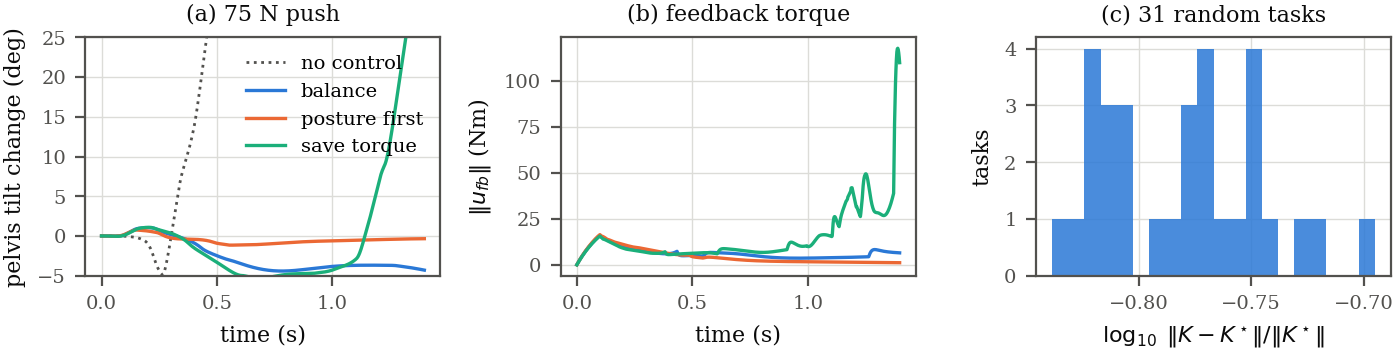
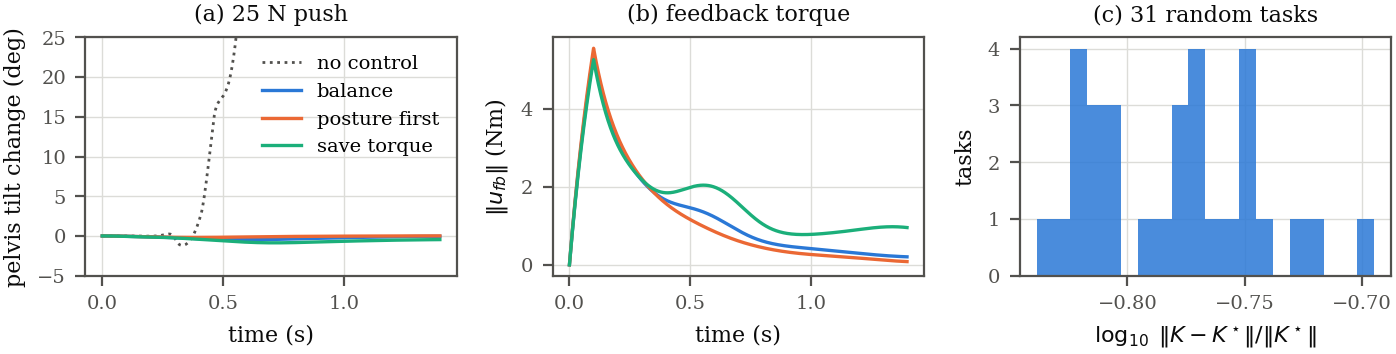
G1: stop policy iteration on a step tolerance it can reach, show a push all three tasks absorb

diff --git a/index.html b/index.html
@@ -376,19 +376,19 @@
         <span class="spec">Unitree G1, n = 70, m = 29</span>
         <span class="spec">500 Hz</span>
         <span class="spec">40000 reward-free samples</span>
-        <span class="spec">about 10 s / task</span>
+        <span class="spec">about 2 s / task</span>
       </div>
 
       <figure class="fig">
         <img src="./images/mujoco_g1.gif"
-          alt="Four Unitree G1 robots standing after a 75 N sideways push; the uncontrolled one falls, two of the three with zero-shot gains hold and the thriftiest one falls later">
-        <figcaption><span class="fnum">Demo</span>A 75&nbsp;N lateral push on the pelvis for 0.1&nbsp;s, drawn as the arrow, played at half speed, with the feedback torque of each of the 29 motors below. Without control the robot falls. The balance and posture-first gains hold. The save-torque gain, which penalises torque three times as much, holds for a moment and then falls.</figcaption>
+          alt="Four Unitree G1 robots standing after a 25 N sideways push; the uncontrolled one falls and the three with zero-shot gains hold">
+        <figcaption><span class="fnum">Demo</span>A 25&nbsp;N lateral push on the pelvis for 0.1&nbsp;s, drawn as the arrow, played at half speed, with the feedback torque of each of the 29 motors below. Without control the robot falls. The three gains hold, and the torque dies away within a few seconds. 25&nbsp;N is the largest push that all three absorb. The save-torque gain, which penalises torque three times as much, gives up first, at 50&nbsp;N.</figcaption>
       </figure>
 
       <figure class="fig" style="margin-top:26px">
         <img src="./images/mujoco_g1.png"
           alt="Three panels: pelvis tilt change after the push for the three tasks and the uncontrolled fall, the norm of the feedback torque, and a histogram of the relative gain error over random tasks">
-        <figcaption><span class="fnum">Fig. 10</span>(a) the pelvis tilt after the push. (b) the norm of the feedback torque: the thrifty gain ends up asking for far more once it starts to lose the pose. (c) the relative gain error over $31$ random tasks that both solvers handle, with a median of $0.17$ and a worst case of $0.20$. For the three named tasks it is $0.23$, $0.20$ and $0.26$, much larger than in the smaller demos, although the identified model is within $6.5\times10^{-3}$ of the finite-difference one. The behaviour is what counts here: the balance gain recovers from pushes up to $75\,$N, exactly what the finite-difference Riccati gain does, posture first reaches $100\,$N and save torque $25\,$N. A gain takes about $10\,$s to read out, because the Lyapunov solves are at size $99$. Standing on one leg is not shown for the G1. The Newton search did not find a single-leg rest point, and a chain of rest points that shifts the weight over one foot stopped being a set of rest points after about $7\,$cm.</figcaption>
+        <figcaption><span class="fnum">Fig. 10</span>(a) the pelvis tilt after the push. (b) the norm of the feedback torque. All three gains settle, with the torque down to about $0.01\,$Nm after $5\,$s. (c) the relative gain error over $31$ random tasks that both solvers handle, with a median of $0.17$ and a worst case of $0.20$. For the three named tasks it is $0.23$, $0.20$ and $0.26$, much larger than in the smaller demos, although the identified model is within $6.5\times10^{-3}$ of the finite-difference one. The behaviour is what counts here: the balance gain recovers from pushes up to $75\,$N, exactly what the finite-difference Riccati gain does, posture first reaches $100\,$N and save torque $25\,$N. Policy iteration stops after $6$ to $9$ steps, at a step size of $10^{-6}$. Asking for $10^{-10}$ as in the smaller demos never terminates, because the root's translation and yaw sit at an eigenvalue of $1$ to within $10^{-5}$, so the Lyapunov solves are ill conditioned and the step stalls near $10^{-8}$. For the same reason the closed loop on the true model has a spectral radius of $1.00007$ rather than below $1$, a mode that drifts by about $4\%$ per second in the root's position and yaw while the balance itself is unaffected. A gain takes about $2\,$s to read out. Standing on one leg is not shown for the G1. The Newton search did not find a single-leg rest point, and a chain of rest points that shifts the weight over one foot stopped being a set of rest points after about $7\,$cm.</figcaption>
       </figure>
     </section>
 
